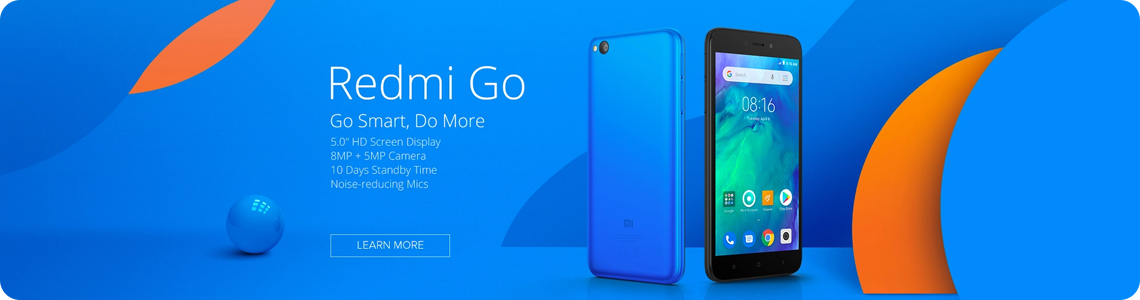
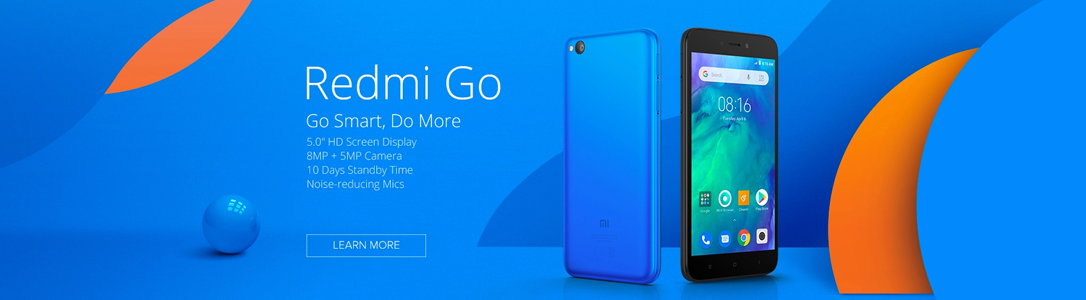
fix slider container

diff --git a/css/main.css b/css/main.css
@@ -548,8 +548,10 @@ a:active {
 }
 
 .main-slider {
-  border-radius: 25px;
+  max-height: 300px;
+  max-width: 1140px;
   overflow: hidden;
+  border-radius: 25px;
 }
 .main-slider .owl-dots {
   margin-top: 0;
@@ -584,8 +586,18 @@ a:active {
 .main-slider .owl-dots .owl-dot:hover span {
   background-color: white;
 }
+@media (max-width: 767px) {
+  .main-slider {
+    border-radius: 5px;
+  }
+}
 .main-slider img {
   border-radius: 25px;
+}
+@media (max-width: 767px) {
+  .main-slider img {
+    border-radius: 5px;
+  }
 }
 
 .accordion {
@@ -793,9 +805,6 @@ a:active {
   display: block;
   text-align: center;
 }
-.product .info:hover .product-img {
-  transform: scale(1.2);
-}
 .product .info:hover .product-name {
   color: #f65456;
 }
@@ -821,6 +830,12 @@ a:active {
   direction: ltr;
   display: block;
   color: #565b6e;
+  font-size: 16px;
+}
+@media (max-width: 577px) {
+  .product .product-price {
+    font-size: 14px;
+  }
 }
 .product .product-price .old-price {
   margin-left: 10px;

diff --git a/css/sass/pages/_home.scss b/css/sass/pages/_home.scss
@@ -108,9 +108,6 @@
         text-align: center;
 
         &:hover {
-            .product-img {
-                transform: scale(1.2);
-            }
 
             .product-name {
                 color: $seccolor;
@@ -136,6 +133,11 @@
         direction: ltr;
         display: block;
         color: $maincolor;
+        font-size: 16px;
+
+        @media (max-width: 577px) {
+            font-size: 14px;
+        }
 
         .old-price {
             margin-left: 10px;

diff --git a/css/sass/components/_carousel.scss b/css/sass/components/_carousel.scss
@@ -81,6 +81,9 @@
 }
 
 .main-slider {
+    max-height: 300px;
+    max-width: 1140px;
+    overflow: hidden;
 
     .owl-dots {
         margin-top: 0;
@@ -122,9 +125,16 @@
     }
 
     border-radius: 25px;
-    overflow: hidden;
+
+    @media(max-width: 767px) {
+        border-radius: 5px;
+    }
 
     img {
         border-radius: 25px;
+
+        @media(max-width: 767px) {
+            border-radius: 5px;
+        }
     }
 }

diff --git a/js/main.js b/js/main.js
@@ -30,7 +30,7 @@ $(document).ready(function () {
     // Main Slider
     $('.main-slider').owlCarousel({
         items: 1,
-        autoplay: true,
+        autoplay: false,
         margin: 5,
         rtl: true,
         loop: true,
